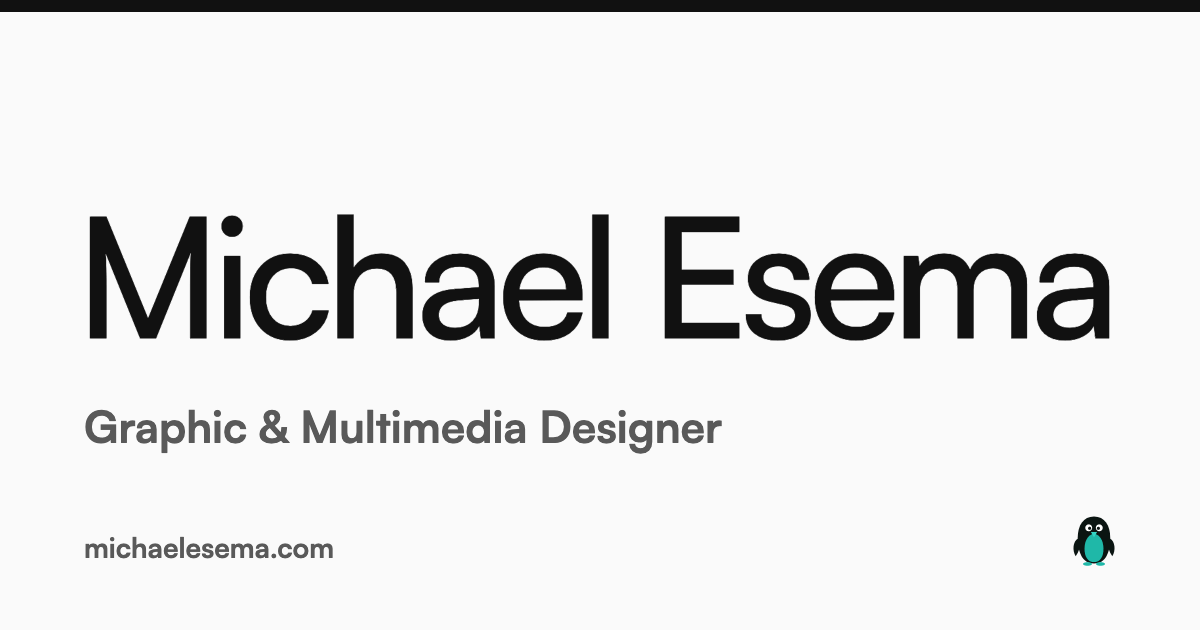
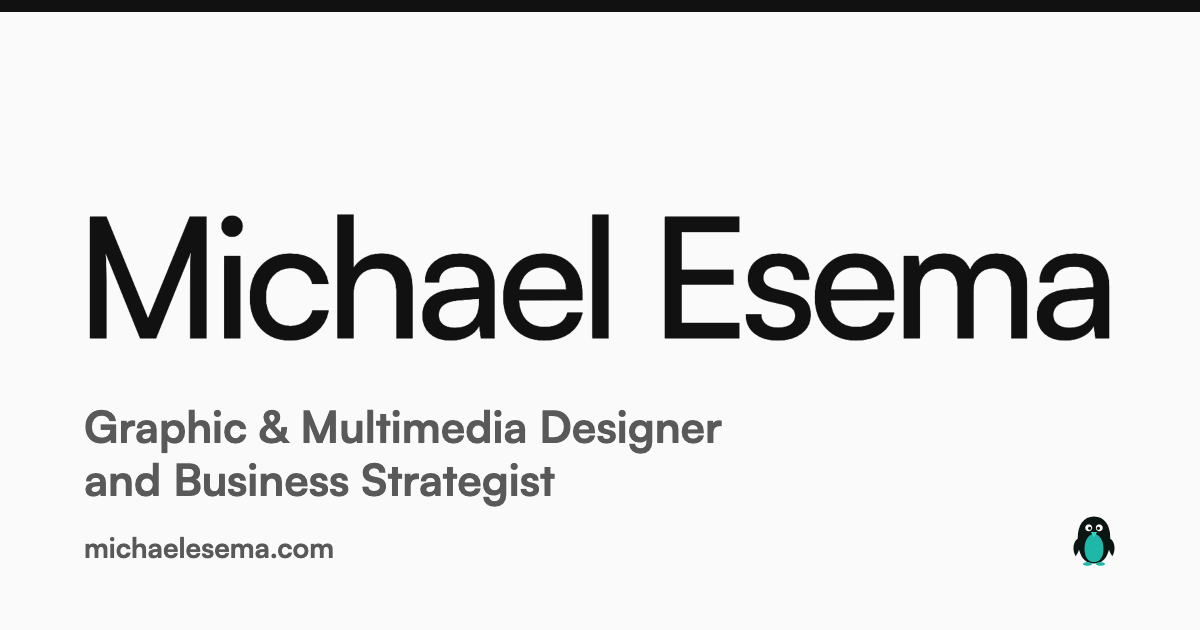
Go-live pass: role and strategist copy, compliance edits, left-aligned nav, swapped columns, no penguin panel
Title and hero lead with the formal role (Graphic & Multimedia Designer) and add Business Strategist; About rewritten from the approved story. Compliance: removed the business-listing schema and every 'small businesses' / taking-on-projects phrase, cut Mykei to one past-tense line, no announcement of any change. Privacy contact moved to hello@michaelesema.com (the old inbox belonged to the paused company), date updated, and the Cloudflare Insights hosts dropped from the CSP so 'no analytics' is true by construction. Layout: nav links are flush-left inside the top-right corner (project pages match); on the home and Blog pages the paragraph is left and the heading right; the rotating penguin in the bottom panel is removed; the 'Drag across the name' caption is removed (the hand stays). Share card re-rendered with the new role; llms.txt updated and lists /work; .nvmrc pins Node 22 for the Cloudflare build. Audit script gains banned-string and Blog-noindex checks. Verified: 150 page loads across 25 screen sizes with no overlap, overflow or console errors, axe clean on 12 loads, 38 of 38 audit checks.

Claude-Session: https://claude.ai/code/session_01RUEys5dbugUawhh6hZ4Afq

Changed region(s): [[0.0617, 0.7238, 0.4625, 0.8143]]

diff --git a/src/site/pages.tsx b/src/site/pages.tsx
@@ -5,7 +5,6 @@ import { HandPointing } from '@phosphor-icons/react'
 import { PROJECTS } from '../work'
 import Crumbs from './Crumbs'
 import GlassWord from './GlassWord'
-import Mark from './Mark'
 import { useMedia } from './motion'
 
 // One reveal, used on Home, Blog and About: a line of text slides up out of a
@@ -20,13 +19,13 @@ function Mask({ children, delay = 0 }: { children: ReactNode; delay?: number }) 
 }
 
 // The dark panel under the wordmark. The penguin is only a small symbol for now.
-// On small screens a hand shows how to move the name until the first touch. The
-// hint is always in the HTML and CSS decides when it shows, so it paints at once.
+// On small screens a hand sways across the panel until the first touch. It carries no
+// caption on purpose: visitors find out what it does by trying. It is always in the
+// HTML and CSS decides when it shows, so it paints at once.
 function Stage({ gone }: { gone: boolean }) {
   return (
     <div className="sx-stage2">
-      <p className={`sx-hint${gone ? ' gone' : ''}`}><span className="sx-hand" aria-hidden="true"><HandPointing size={34} weight="light" /></span>Drag across the name</p>
-      <div className="sx-turn" aria-hidden="true"><Mark onDark /></div>
+      <div className={`sx-hint${gone ? ' gone' : ''}`} aria-hidden="true"><span className="sx-hand"><HandPointing size={34} weight="light" /></span></div>
       <Link to="/privacy" className="sx-legal">Privacy</Link>
     </div>
   )
@@ -51,11 +50,11 @@ export function Home() {
   const [touched, setTouched] = useState(false)
   return (
     <main id="sx-main" tabIndex={-1} className="sx-main sx-home">
-      <Meta title="Michael Esema | Graphic and Multimedia Designer" desc="Michael Esema is a graphic and multimedia designer in the UK working across identity, visual communication and digital design." path="/" />
+      <Meta title="Michael Esema | Graphic & Multimedia Designer & Business Strategist" desc="Portfolio of Michael Esema, a UK graphic and multimedia designer and business strategist (BSc, MBA, MSc, Lean Six Sigma). Brand identity, visual systems and print." path="/" />
       <div className="sx-top">
-      <p className="sx-head"><Mask>Graphic &amp; Multimedia</Mask><Mask delay={0.08}>Designer</Mask></p>
-      <p className="sx-para"><Mask delay={0.16}>I work across identity, visual communication and digital design, helping ideas and businesses find a clear visual language.</Mask></p>
-      <h1 className="sx-h1"><span className="sx-sr">Michael Esema</span><Mask delay={0.28}><GlassWord lines={small ? ['Michael', 'Esema'] : ['Michael Esema']} auto={small || coarse} onInteract={() => setTouched(true)} /></Mask></h1>
+      <p className="sx-head"><Mask>Graphic &amp; Multimedia</Mask><Mask delay={0.08}>Designer and</Mask><Mask delay={0.16}>Business Strategist</Mask></p>
+      <p className="sx-para"><Mask delay={0.24}>I design brands, print and websites, and I start where an accountant would: what does this have to achieve, for whom, and how will we know it worked?</Mask></p>
+      <h1 className="sx-h1"><span className="sx-sr">Michael Esema</span><Mask delay={0.36}><GlassWord lines={small ? ['Michael', 'Esema'] : ['Michael Esema']} auto={small || coarse} onInteract={() => setTouched(true)} /></Mask></h1>
       </div>
       <Stage gone={touched} />
     </main>
@@ -122,21 +121,29 @@ const QUALS: [string, string][] = [
 export function About() {
   return (
     <main id="sx-main" tabIndex={-1} className="sx-main sx-about">
-      <Meta title="About Michael Esema | Graphic and Multimedia Designer" desc="Michael Esema is a graphic and multimedia designer based in the UK, originally from Nigeria, with a background in accounting and business management." path="/about" />
+      <Meta title="About Michael Esema | Graphic and Multimedia Designer" desc="Michael Esema is a graphic and multimedia designer and business strategist in the UK, originally from Nigeria, trained in accounting and business management." path="/about" />
       <h1 className="sx-sr">About Michael Esema</h1>
       <Crumbs here="About" />
       <section className="sx-row"><h2 className="sx-label">Bio</h2>
         <div className="sx-prose">
-          <p className="lead"><Mask>I’m Michael Esema, a graphic and multimedia designer based in the UK, originally from Nigeria.</Mask></p>
-          <p>My background is a little different. I trained as an accountant and studied business management, so I tend to think about what a design needs to achieve before deciding how it should look. I enjoy bringing those two sides together: creative thinking and practical problem-solving.</p>
+          <p className="lead"><Mask>I’m Michael Esema, a graphic and multimedia designer and business strategist based in the UK, originally from Nigeria.</Mask></p>
+          <p>I trained as an accountant, then studied business to master’s level, and all the while I was designing. The two never felt separate. A brief is a budget with a deadline. A brand is a promise that has to be kept everywhere it shows up, from the logo to the invoice. So before I open Illustrator I ask what the work has to do, who it is for, and how we will know it did.</p>
         </div>
       </section>
       <section className="sx-row"><h2 className="sx-label">Story</h2>
         <div className="sx-prose">
-          <p>My design journey started in 2018 when I became part-time Design Lead for Silent Party 9ja, an events brand in Nigeria. I worked on its visual identity and promotional materials, helping the brand connect with its audience. I still design for them now and then, to keep sharp.</p>
-          <p>In 2019, I joined B’s Hive Hotels &amp; Suites in Abuja as Head Accountant. Alongside my finance responsibilities, I designed the hotel’s logo and letterhead, created promotional materials and managed its social media. Over time, I became involved in the wider running of the business.</p>
-          <p>Later, I founded a security technology start-up, Mykei Securities Ltd. That gave me another opportunity to bring design and business together. I developed its brand identity, website and publications, while also working on the product and its wider direction. The company has a UK patent application.</p>
-          <p>Since moving to the UK, I’ve continued taking on independent creative projects, working with small businesses and developing ideas of my own.</p>
+          <p>2018. I finished a BSc in Accounting and became part-time design lead for Silent Party 9ja, an events brand in Nigeria. I led its visual identity and promotional work until February 2023, and I still design for it now and then, to keep sharp.</p>
+          <p>2019. B’s Hive Hotels &amp; Suites in Abuja hired me as Head Accountant. I kept the books, and I also designed the hotel’s logo and letterhead, made its promotions and ran its social media. Over time I moved into running the wider business and became Manager.</p>
+          <p>2022 and 2024. I took an MBA at the Nigerian Defence Academy, then an MSc in International Business Management at Manchester Metropolitan University, finishing with a Merit. In 2025 I added Lean Six Sigma certification for the process side.</p>
+          <p>I later founded Mykei Securities Ltd, a security technology start-up, and designed its brand identity, website and publication, The Signal.</p>
+          <p>Selected work includes the identity for Sarah Bellus, a Nigerian caterer in the UK, and the identity and booking site for Silent Party 9ja.</p>
+        </div>
+      </section>
+      <section className="sx-row"><h2 className="sx-label">How I work</h2>
+        <div className="sx-prose">
+          <p>Ask first. What must this do, for whom, and how will we tell?</p>
+          <p>Decide once. A small set of colours, type and rules, written down, so every piece matches. On this site every colour comes from one file.</p>
+          <p>Check the numbers. Contrast, load time and print cost are measured, not guessed.</p>
         </div>
       </section>
       <section className="sx-row"><h2 className="sx-label">Studied</h2>

diff --git a/src/site/site.css b/src/site/site.css
@@ -30,7 +30,9 @@ body.sx-body { background: var(--sx-snow) !important; background-image: none !im
 /* Chrome: top bar, mark, vertical nav */
 .sx-bar { position: fixed; top: 0; left: 0; right: 0; height: 8px; background: var(--sx-ink); z-index: 60; }
 .sx-mark { position: fixed; top: 18px; left: 18px; width: 22px; height: 22px; z-index: 60; display: block; opacity: 0.9; }
-.sx-nav { position: fixed; top: 14px; right: 32px; z-index: 60; display: grid; justify-items: end; }
+/* Top-right corner, but the links are flush left inside it (ragged right) rather than the
+   usual right-aligned stack. Project pages use the same alignment in BrandWorld.tsx. */
+.sx-nav { position: fixed; top: 14px; right: 32px; z-index: 60; display: grid; justify-items: start; }
 .sx-nav a { font: 800 16px/24px 'Satoshi', sans-serif; text-transform: uppercase; color: var(--sx-grey); text-decoration: none; }
 .sx-nav a:hover, .sx-nav a[aria-current='page'] { color: var(--sx-ink); }
 .sx-skiplink { position: fixed; left: 16px; top: -60px; z-index: 120; background: var(--sx-ink); color: #fff; padding: 10px 16px; font: 700 14px 'Satoshi', sans-serif; }
@@ -51,16 +53,15 @@ html.sx-gate body::before { content: ''; position: fixed; inset: 0; z-index: 99;
    to fit its content, so the name can never ride up over the text on a short window.
    On a window too short for it the page simply scrolls a little. */
 .sx-home { min-height: 100dvh; display: grid; grid-template-rows: minmax(65dvh, auto) minmax(96px, 1fr); }
-.sx-top { position: relative; overflow: hidden; display: grid; grid-template-columns: 1fr 1fr; grid-template-rows: auto 1fr; padding-top: clamp(72px, 20dvh, 180px); }
-.sx-head { grid-column: 1; margin: 0 0 0 24px; width: min(522px, 44vw); font: 500 clamp(26px, 2.6vw, 37.2px)/1.3 'Satoshi', sans-serif; letter-spacing: -0.003em; }
-.sx-para { grid-column: 2; margin: 0; width: min(635px, 44vw); font: 700 clamp(18px, 1.76vw, 25.28px)/1.46 'Satoshi', sans-serif; letter-spacing: -0.01em; }
+.sx-top { position: relative; overflow: hidden; display: grid; grid-template-columns: 1fr 1fr; grid-template-rows: auto 1fr; padding-top: clamp(112px, 20dvh, 180px); }
+.sx-head { grid-column: 2; grid-row: 1; margin: 0; width: min(522px, 44vw); font: 500 clamp(26px, 2.6vw, 37.2px)/1.3 'Satoshi', sans-serif; letter-spacing: -0.003em; }
+.sx-para { grid-column: 1; grid-row: 1; margin: 0 0 0 24px; width: min(635px, 44vw); font: 700 clamp(18px, 1.76vw, 25.28px)/1.46 'Satoshi', sans-serif; letter-spacing: -0.01em; }
 .sx-h1 { grid-column: 1 / -1; grid-row: 2; align-self: end; margin: 24px 16px 0; font-weight: 500; line-height: 1; white-space: nowrap; }
 .sx-gw { display: block; position: relative; width: 100%; }
 .sx-gw-txt { display: block; font-weight: 500; letter-spacing: -0.045em; line-height: 1.12; color: var(--sx-ink); white-space: nowrap; }
 .sx-gw-txt.on { opacity: 0; }
 .sx-gw-cv { position: absolute; left: 0; top: 0; width: 100%; touch-action: pan-y; }
 .sx-stage2 { position: relative; background: var(--sx-ink); display: grid; place-items: center; perspective: 700px; }
-.sx-turn { width: 34px; aspect-ratio: 1; animation: sx-rot 9s linear infinite; opacity: 0.85; }
 .sx-hint { display: none; }
 .sx-hand { display: inline-block; animation: sx-swipe 2.2s ease-in-out infinite; transform-origin: 50% 90%; }
 @keyframes sx-swipe { 0% { transform: translateX(-34px) rotate(-10deg); } 50% { transform: translateX(34px) rotate(10deg); } 100% { transform: translateX(-34px) rotate(-10deg); } }
@@ -134,7 +135,6 @@ html.sx-gate body::before { content: ''; position: fixed; inset: 0; z-index: 99;
   .sx-stage2 { position: relative; align-content: center; justify-items: center; gap: 14px; }
   .sx-hint { display: grid; justify-items: center; gap: 6px; margin: 0; font: 700 14px/1.2 'Satoshi', sans-serif; color: var(--sx-snow); }
   .sx-hint.gone { display: none; }
-  .sx-turn { position: absolute; right: 16px; bottom: 16px; width: 26px; }
   .sx-about { padding: 120px 16px 72px; }
   .sx-row { grid-template-columns: 1fr; gap: 10px; }
 }
@@ -155,6 +155,6 @@ html.sx-gate body::before { content: ''; position: fixed; inset: 0; z-index: 99;
 }
 
 @media (prefers-reduced-motion: reduce) {
-  .sx-spin.on, .sx-turn, .sx-hand, .sx-up, .bw-rise, .bw-zoom, .bw-board { animation: none; }
+  .sx-spin.on, .sx-hand, .sx-up, .bw-rise, .bw-zoom, .bw-board { animation: none; }
   .sx-thumbs li { transition: none; }
 }

diff --git a/src/seo.ts b/src/seo.ts
@@ -24,14 +24,14 @@ const PERSON = {
   additionalName: 'Essien',
   familyName: 'Esema',
   alternateName: ['Michael Essien Esema', 'Mike Esema'],
-  jobTitle: 'Graphic and Multimedia Designer',
+  jobTitle: 'Graphic & Multimedia Designer and Business Strategist',
   hasOccupation: {
     '@type': 'Occupation',
-    name: 'Graphic and Multimedia Designer',
+    name: 'Graphic & Multimedia Designer and Business Strategist',
     skills: 'Brand identity, logo design, print and editorial layout, web design, social media graphics, video editing, art direction',
   },
-  description: 'Michael Esema is a graphic and multimedia designer based in the United Kingdom. He has designed brand identities, print and social content since 2018, and now also websites. He holds a BSc in Accounting, an MBA and an MSc in International Business Management.',
-  knowsAbout: ['Graphic design', 'Brand identity', 'Logo design', 'Typography', 'Editorial design', 'Print design', 'Web design', 'UI design', 'Social media design', 'Video editing', 'Art direction', 'Adobe Photoshop', 'Adobe Illustrator', 'Adobe InDesign', 'Figma', 'Canva', 'CapCut', 'Blender'],
+  description: 'Michael Esema is a graphic and multimedia designer and business strategist based in the United Kingdom. He has designed brand identities, print and social content since 2018. He holds a BSc in Accounting, an MBA, an MSc in International Business Management and a Lean Six Sigma certification.',
+  knowsAbout: ['Graphic design', 'Multimedia design', 'Brand identity', 'Brand identity systems', 'Business strategy', 'Visual communication', 'Logo design', 'Typography', 'Editorial design', 'Print design', 'Web design', 'UI design', 'Social media design', 'Video editing', 'Art direction', 'Adobe Photoshop', 'Adobe Illustrator', 'Adobe InDesign', 'Figma', 'Canva', 'CapCut', 'Blender'],
   url: SITE,
   image: `${SITE}/michael-esema-portrait.jpg`,
   email: 'hello@michaelesema.com',
@@ -49,22 +49,6 @@ const PERSON = {
     { '@type': 'EducationalOccupationalCredential', credentialCategory: 'certificate', name: 'Lean Six Sigma', dateCreated: '2025' },
   ],
   sameAs: ['https://www.linkedin.com/in/michaelesema', 'https://github.com/Thatmikee', 'https://linktr.ee/mikeyesema'],
-}
-
-// A one-person design practice. No street address is published on purpose, so this
-// describes the service and where it works without claiming a shop front.
-const SERVICE = {
-  '@type': 'ProfessionalService',
-  '@id': `${SITE}/#service`,
-  name: 'Michael Esema',
-  url: SITE,
-  image: CARD,
-  logo: `${SITE}/logo.png`,
-  email: 'hello@michaelesema.com',
-  description: 'Brand identity, print and web design for small businesses.',
-  areaServed: { '@type': 'Country', name: 'United Kingdom' },
-  serviceType: ['Brand identity design', 'Logo design', 'Print and editorial design', 'Web design'],
-  founder: { '@id': PERSON_ID },
 }
 
 const CTX = 'https://schema.org'
@@ -89,8 +73,7 @@ export function seo(path: string): Seo {
         type: 'profile',
         jsonld: [
           { '@context': CTX, '@type': 'ProfilePage', url: url('/'), mainEntity: PERSON },
-          { '@context': CTX, '@type': 'WebSite', name: 'Michael Esema', url: SITE, description: 'Portfolio of Michael Esema, graphic and multimedia designer.', publisher: { '@id': PERSON_ID } },
-          { '@context': CTX, ...SERVICE },
+          { '@context': CTX, '@type': 'WebSite', name: 'Michael Esema', url: SITE, description: 'Portfolio of Michael Esema, graphic and multimedia designer and business strategist.', publisher: { '@id': PERSON_ID } },
         ],
       }
     case '/work':

diff --git a/src/pages/PrivacyPage.tsx b/src/pages/PrivacyPage.tsx
@@ -1,11 +1,11 @@
 import { Helmet } from 'react-helmet-async'
 import Crumbs from '../site/Crumbs'
 
-// The wording below is the published policy, unchanged. Only the layout is new.
+// Policy wording as published; contact address and date updated 28 November 2026.
 const SECTIONS = [
   {
     heading: 'Who this is',
-    body: 'This is the personal site of Michael Esema, based in the UK. Michael also founded Mykei Securities Ltd (Company No. 16984969). For any data-related enquiries, contact privacy@mykei.io.',
+    body: 'This is the personal site of Michael Esema, based in the UK. For any data-related enquiries, contact hello@michaelesema.com.',
   },
   {
     heading: 'What data is collected',
@@ -17,7 +17,7 @@ const SECTIONS = [
   },
   {
     heading: 'Your rights',
-    body: 'Under UK GDPR, you have the right to access, correct, or request erasure of any personal data held. You may also object to processing, request restriction, or lodge a complaint with the Information Commissioner\'s Office (ICO) at ico.org.uk. To exercise your rights, email privacy@mykei.io.',
+    body: 'Under UK GDPR, you have the right to access, correct, or request erasure of any personal data held. You may also object to processing, request restriction, or lodge a complaint with the Information Commissioner\'s Office (ICO) at ico.org.uk. To exercise your rights, email hello@michaelesema.com.',
   },
   {
     heading: 'Cookies',
@@ -41,7 +41,7 @@ export default function PrivacyPage() {
       </Helmet>
       <Crumbs here="Privacy and cookies" />
       <h1 className="sx-page-title">Privacy &amp; Cookies</h1>
-      <p className="sx-meta">Last updated: 12 June 2026</p>
+      <p className="sx-meta">Last updated: 28 November 2026</p>
       {SECTIONS.map(({ heading, body }) => (
         <section key={heading} className="sx-row">
           <h2 className="sx-label">{heading}</h2>

diff --git a/src/pages/BrandWorld.tsx b/src/pages/BrandWorld.tsx
@@ -132,7 +132,7 @@ export default function BrandWorld({ p, w, next }: { p: Project; w: World; next:
     <div className="bw" style={{ background: t.ground, color: t.ink, minHeight: '100dvh' }}>
       <header style={{ position: 'absolute', top: 0, left: 0, right: 0, height: 120, zIndex: 50, background: `linear-gradient(to bottom, ${t.ground}cc, transparent)` }}>
         <Link to="/" aria-label="Michael Esema, home" style={{ position: 'absolute', left: 18, top: 18, width: 22, height: 22, display: 'block' }}><Mark onDark={dark} /></Link>
-        <nav aria-label="Primary" style={{ position: 'absolute', right: 'clamp(16px, 2.2vw, 32px)', top: 14, display: 'grid', justifyItems: 'end' }}>
+        <nav aria-label="Primary" style={{ position: 'absolute', right: 'clamp(16px, 2.2vw, 32px)', top: 14, display: 'grid', justifyItems: 'start' }}>
           {[['Work', '/work'], ['Blog', '/blog'], ['About', '/about']].map(([label, to]) => (
             <Link key={to} to={to} className="bw-nav" style={{ font: "800 16px/24px 'Satoshi', sans-serif", textTransform: 'uppercase' }}>{label}</Link>
           ))}
